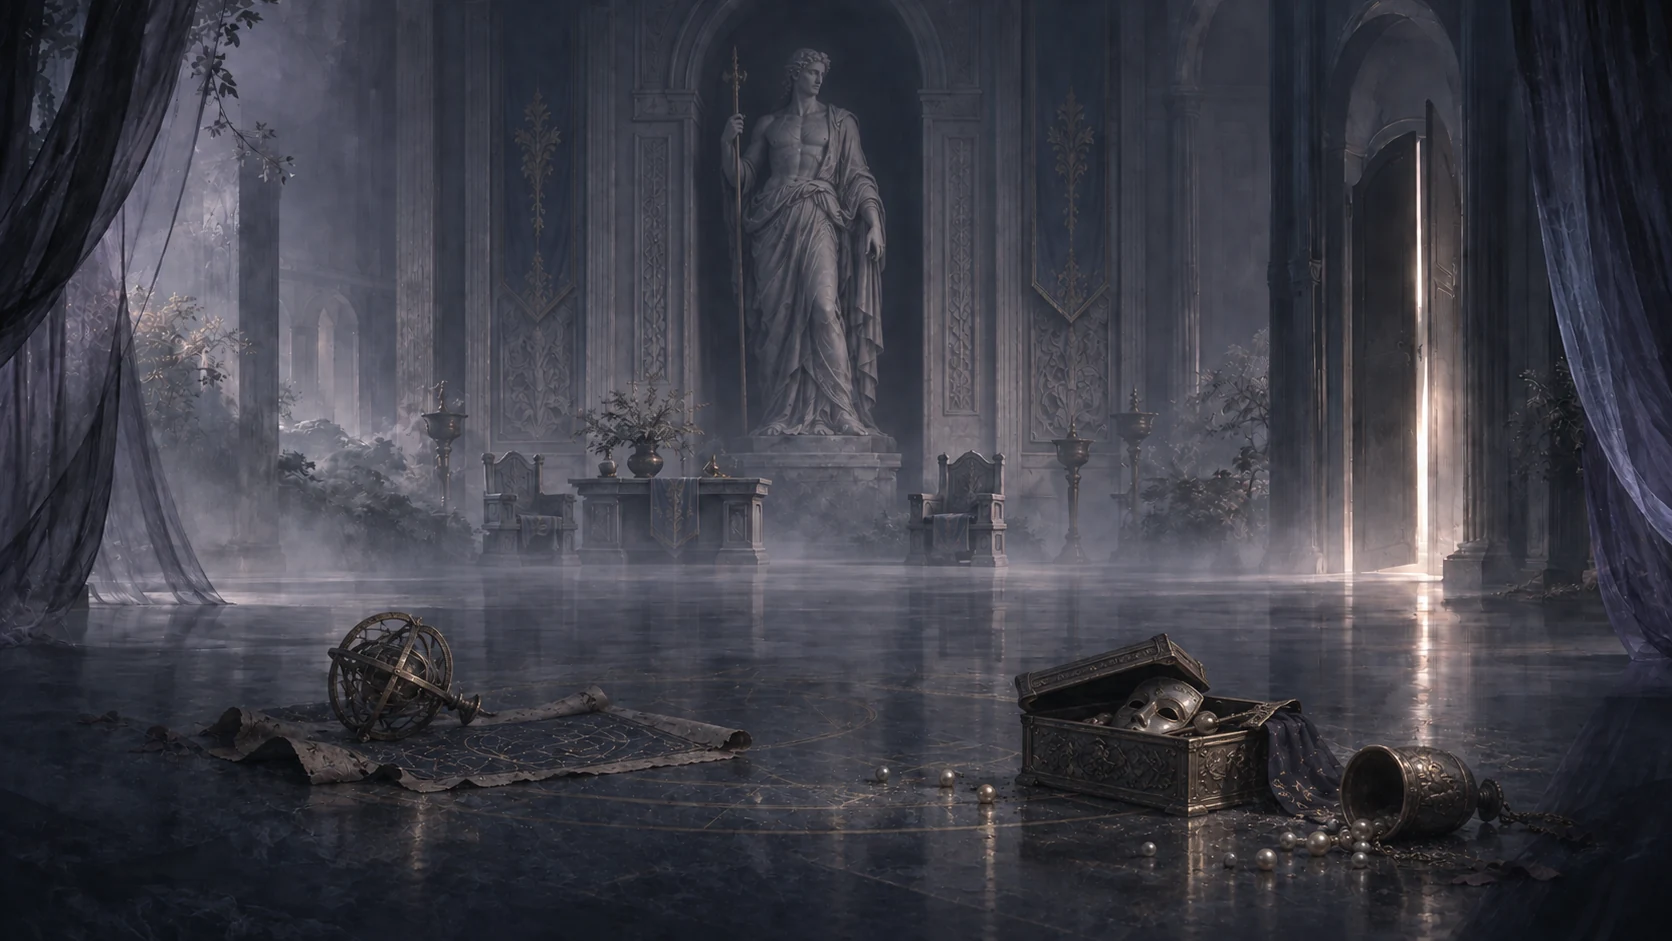
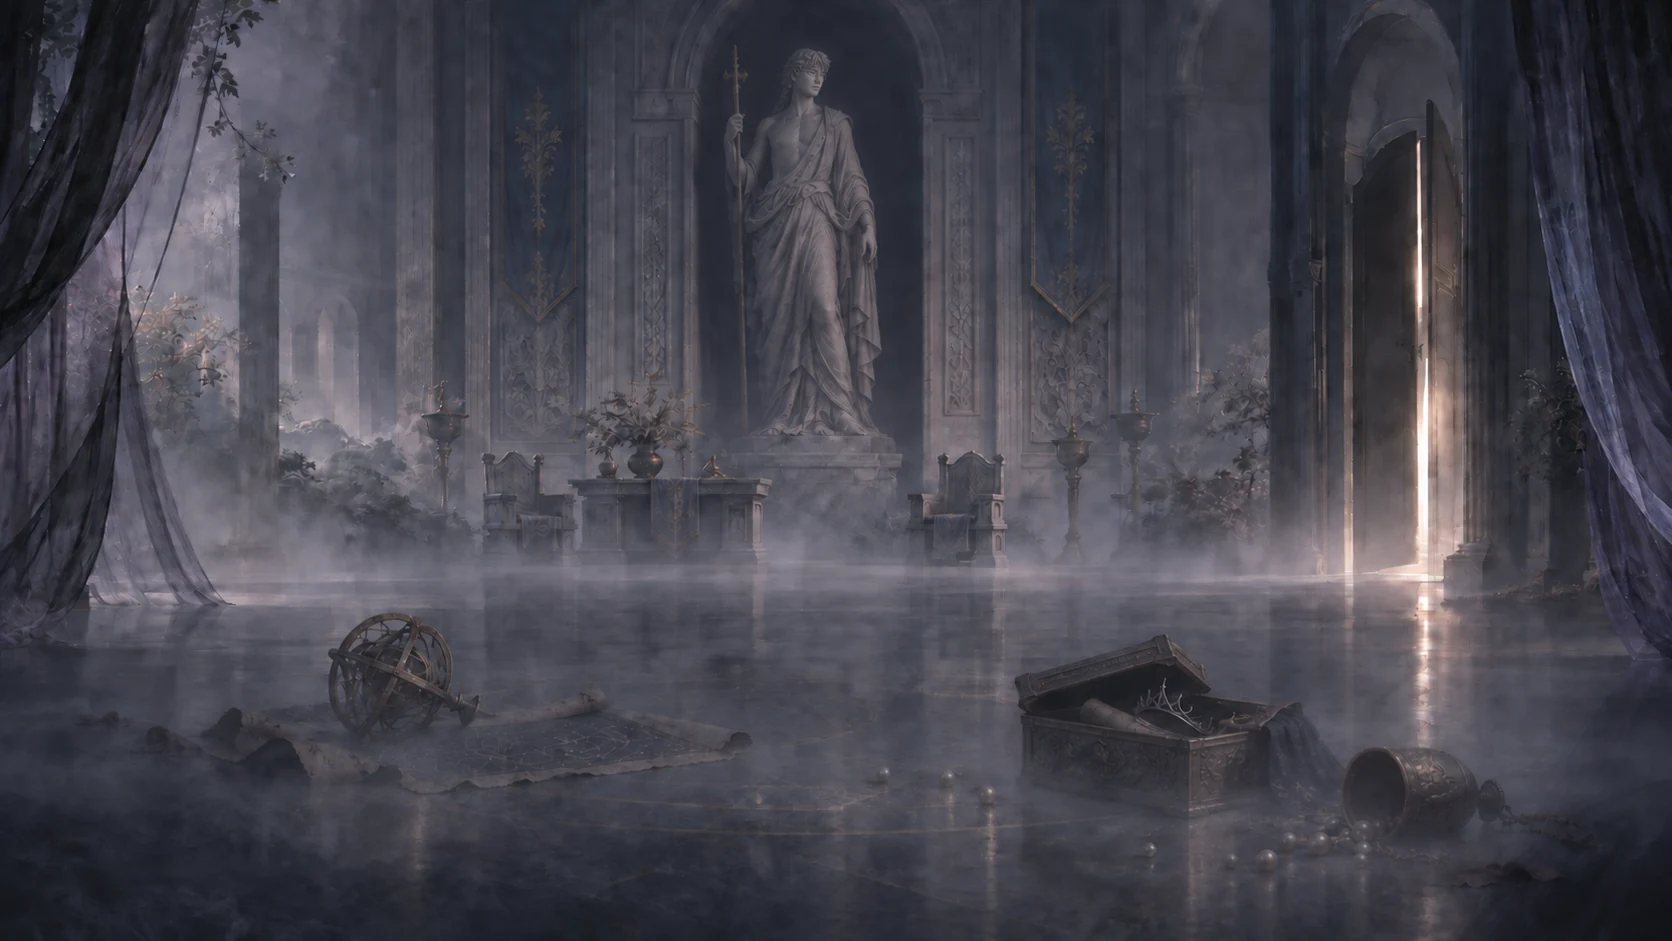
fix: soften palace discoveries and refine statue likeness

diff --git a/frontend/e2e/lobby-v2.spec.ts b/frontend/e2e/lobby-v2.spec.ts
@@ -287,11 +287,13 @@ test.describe("入局遮罩连续性",()=>{
     await page.evaluate(()=>{
       const frames:Array<{phase:string;opacity:number;game:boolean}>=[];
       (window as unknown as {entryFrames:typeof frames}).entryFrames=frames;
-      let id=0;
+      // Sample the entire transition; a fixed frame count ends early on
+      // fast displays and can miss the already-rendered game handoff.
+      const deadline=performance.now()+10_000;
       const sample=()=>{
         const el=document.querySelector(".game-entry-overlay");
         if(el) frames.push({phase:el.className,opacity:Number(getComputedStyle(el).opacity),game:!!document.querySelector(".scene-game")});
-        if(id++<100) requestAnimationFrame(sample);
+        if(performance.now()<deadline && (el || !document.querySelector(".scene-game"))) requestAnimationFrame(sample);
       };requestAnimationFrame(sample);
     });
     seen.release();
